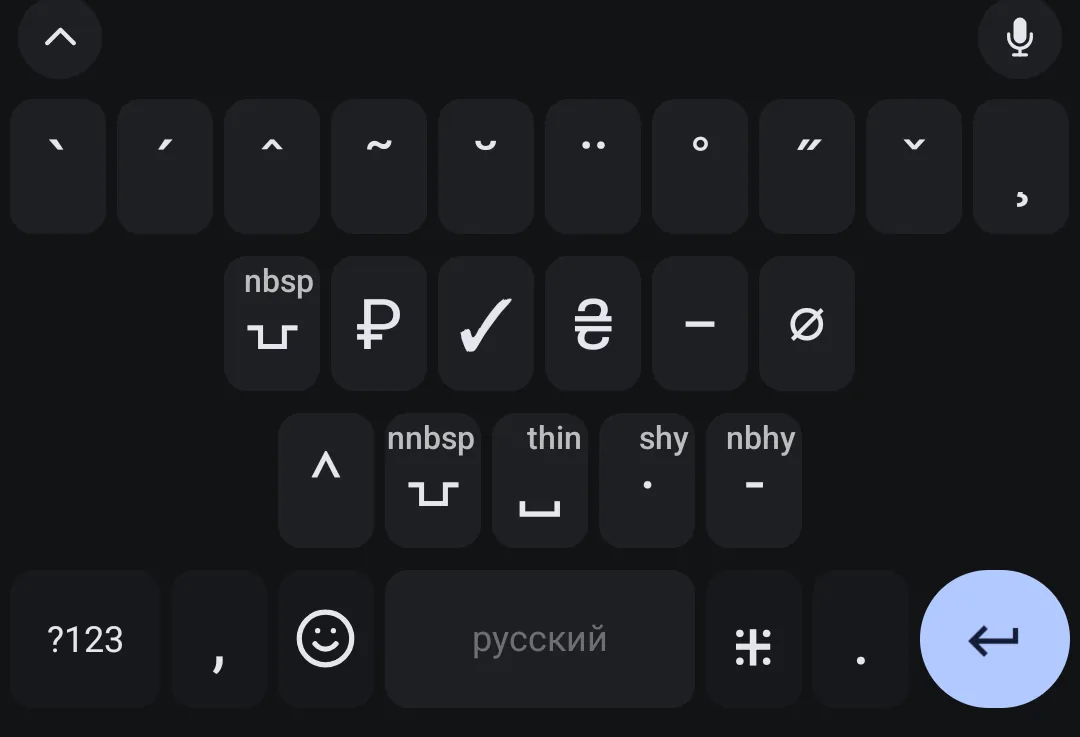
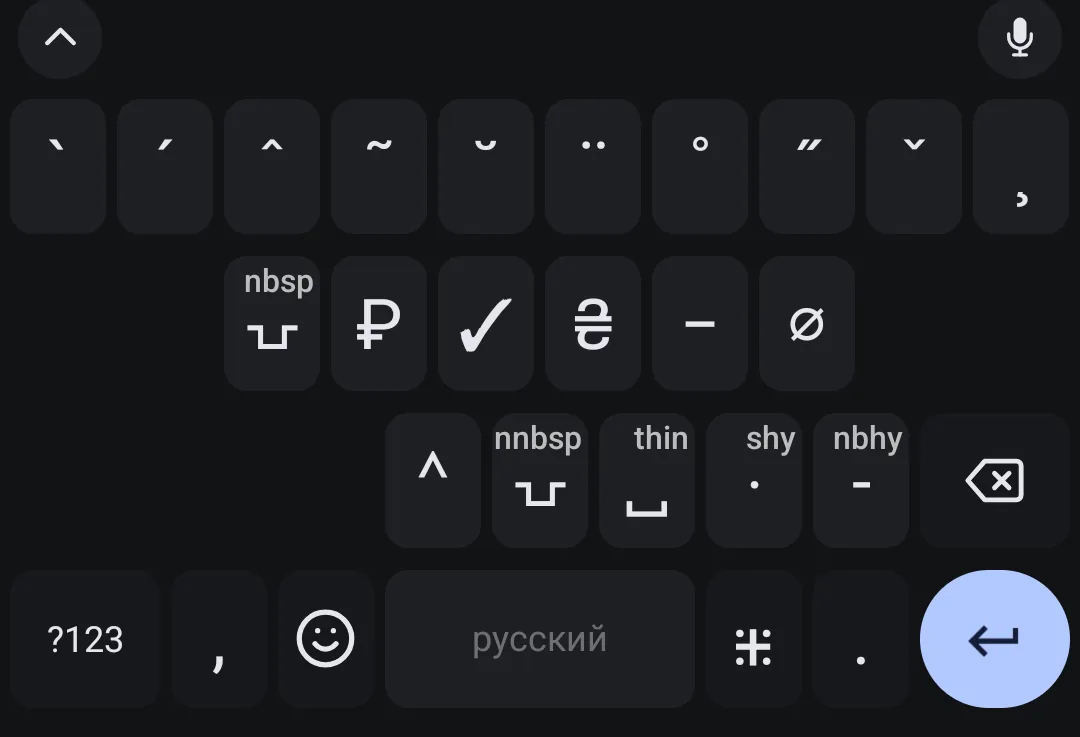
build_futo_yaml: give the alt page a delete key
Every stock layout with altPages closes its last letter row with $delete: all
six IPA ones do. Ours had none, so a mistyped character on the alt page could
not be corrected without leaving the page first.

The alt page is not locked, so pressing a character returns you to the letters
row where backspace lives, which is why this went unnoticed. It still leaves
you unable to delete anything before pressing a character.

Screenshots on the site refreshed for the four alt-page views.

Claude-Session: https://claude.ai/code/session_016eNkf9rVrvMfCv4rgBfq3v

diff --git a/build_futo_yaml.py b/build_futo_yaml.py
@@ -657,11 +657,16 @@ def emit(layout_key: str, layers: dict[str, Any], placement: str, strict: bool,
         remaining = max(1, n_letter_rows - 1)
         per_row = -(-len(orphans) // remaining)  # ceil
         chunks = [orphans[i:i + per_row] for i in range(0, len(orphans), per_row)]
-        for chunk in chunks:
+        for i, chunk in enumerate(chunks):
             L.append("    - attributes: {moreKeyMode: OnlyExplicit}")
             L.append("      letters:")
             for ch in chunk:
                 L.append(emit_orphan(ch))
+            if i == len(chunks) - 1:
+                # Every stock altPages layout closes its last letter row with
+                # $delete -- all six IPA ones do. Without it there is no way to
+                # correct a mistake without leaving the page.
+                L.append("      - $delete")
     # An altPage replaces every row, bottom included, so it needs its own way back.
     L.append("    - bottom:")
     L.append("      - $symbols")
